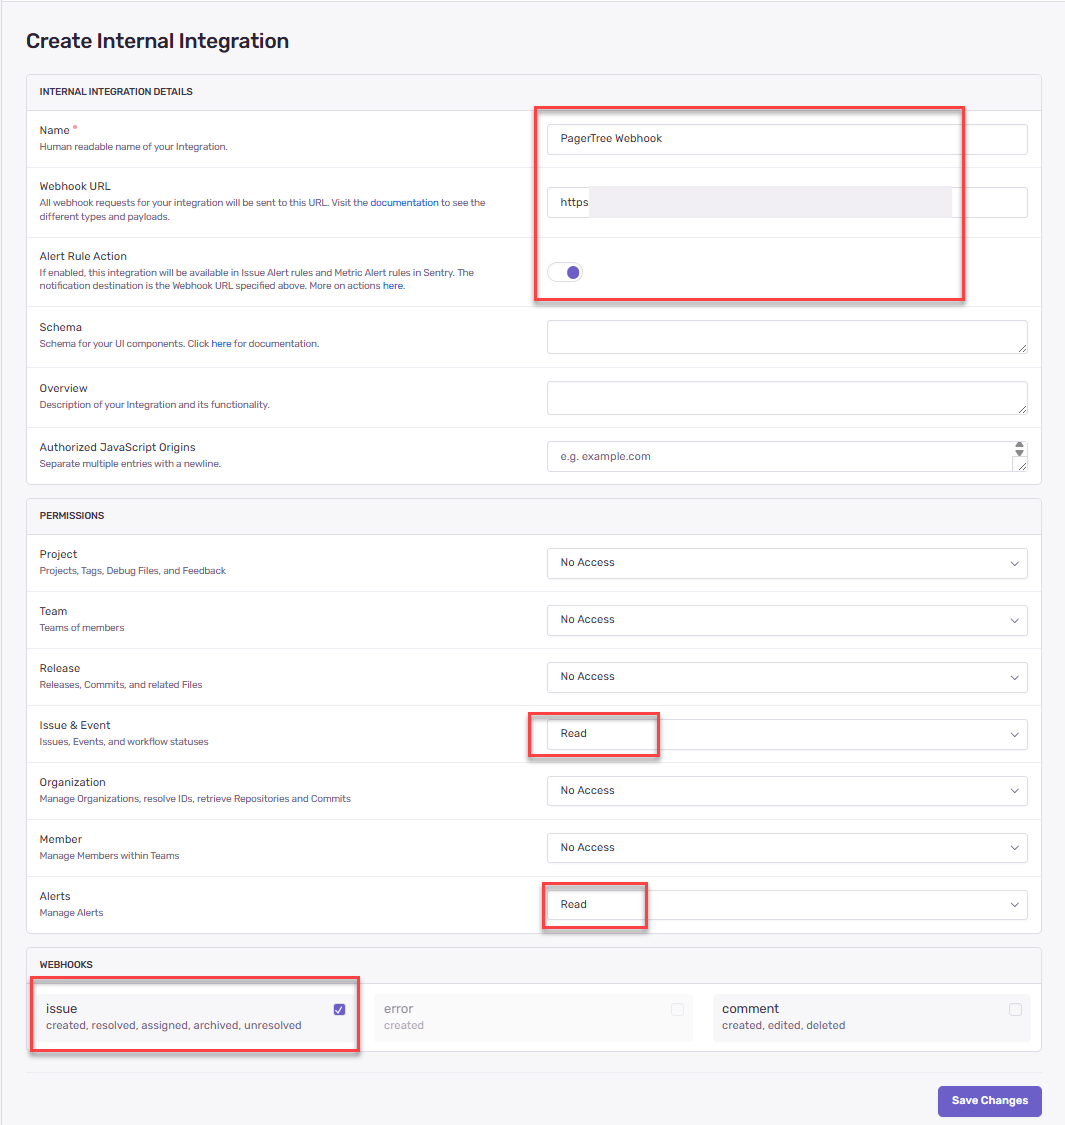
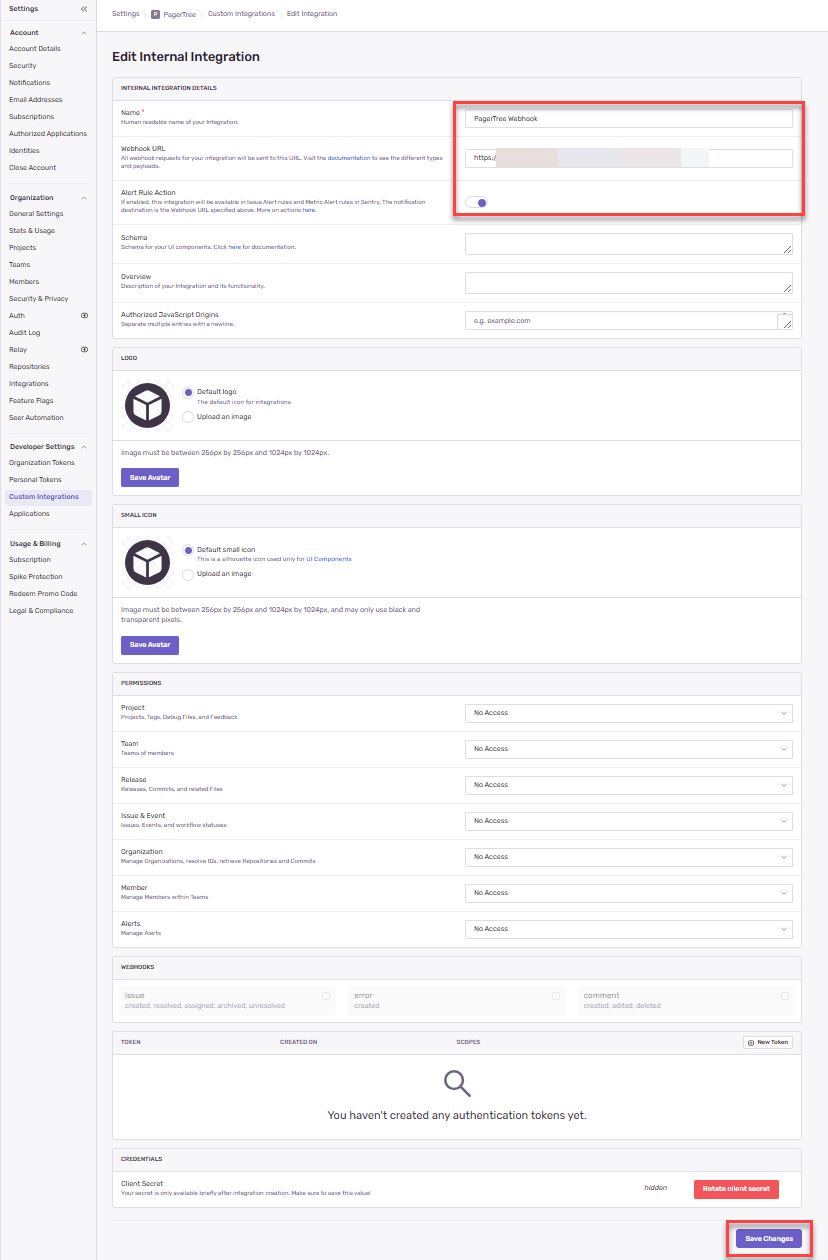
Update sentry docs

diff --git a/docs/integration-guides/sentry.md b/docs/integration-guides/sentry.md
@@ -16,8 +16,7 @@ description: Connect your Sentry issues to PagerTree.
 
 Sentry triggers user-defined alerts by monitoring website performance, errors, and issues.
 
-* When an issue or error is created in Sentry, an alert is created in PagerTree automatically.
-* When an issue is resolved in Sentry, the alert is resolved in PagerTree.
+* When an issue or error is created in Sentry by Alert Conditions, an alert is created in PagerTree automatically.
 
 ## Integration Walkthrough
 
@@ -48,14 +47,8 @@ By using the webhooks integration, you can use custom Alerts and Conditions to c
    - **Name**: Enter a name for the integration (e.g., "PagerTree Webhook").
    - **Webhook URL**: Paste the **PagerTree Endpoint URL** you copied.
    - **Alert Rule Action**: **Enable**. This option allows the integration to be used the in the Alert Conditions.
-   - **Permissions**:
-        - **Issue & Event**: **Read**
-        - **Alerts**: **Read**
-    - **Webhooks**:
-        - **issue**: **enabled**
-
-        <figure>![Sentry Webhook Settings](<../.gitbook/assets/sentry-create-internal-integration-settings.png>)<figcaption><p>Configure the Sentry Webhook settings.</p></figcaption></figure>
 4.  **Click Save Changes**.
+        <figure>![Sentry Webhook Settings](<../.gitbook/assets/sentry-create-internal-integration-settings.png>)<figcaption><p>Configure the Sentry Webhook settings.</p></figcaption></figure>
 5. **Copy the Client Secret** - Scroll to the bottom of the newly created Sentry integration and copy the client secret.
     <figure>![Sentry Client Secret](<../.gitbook/assets/sentry-copy-client-secret.png>)<figcaption><p>Copy the Client Secret.</p></figcaption></figure>
 
